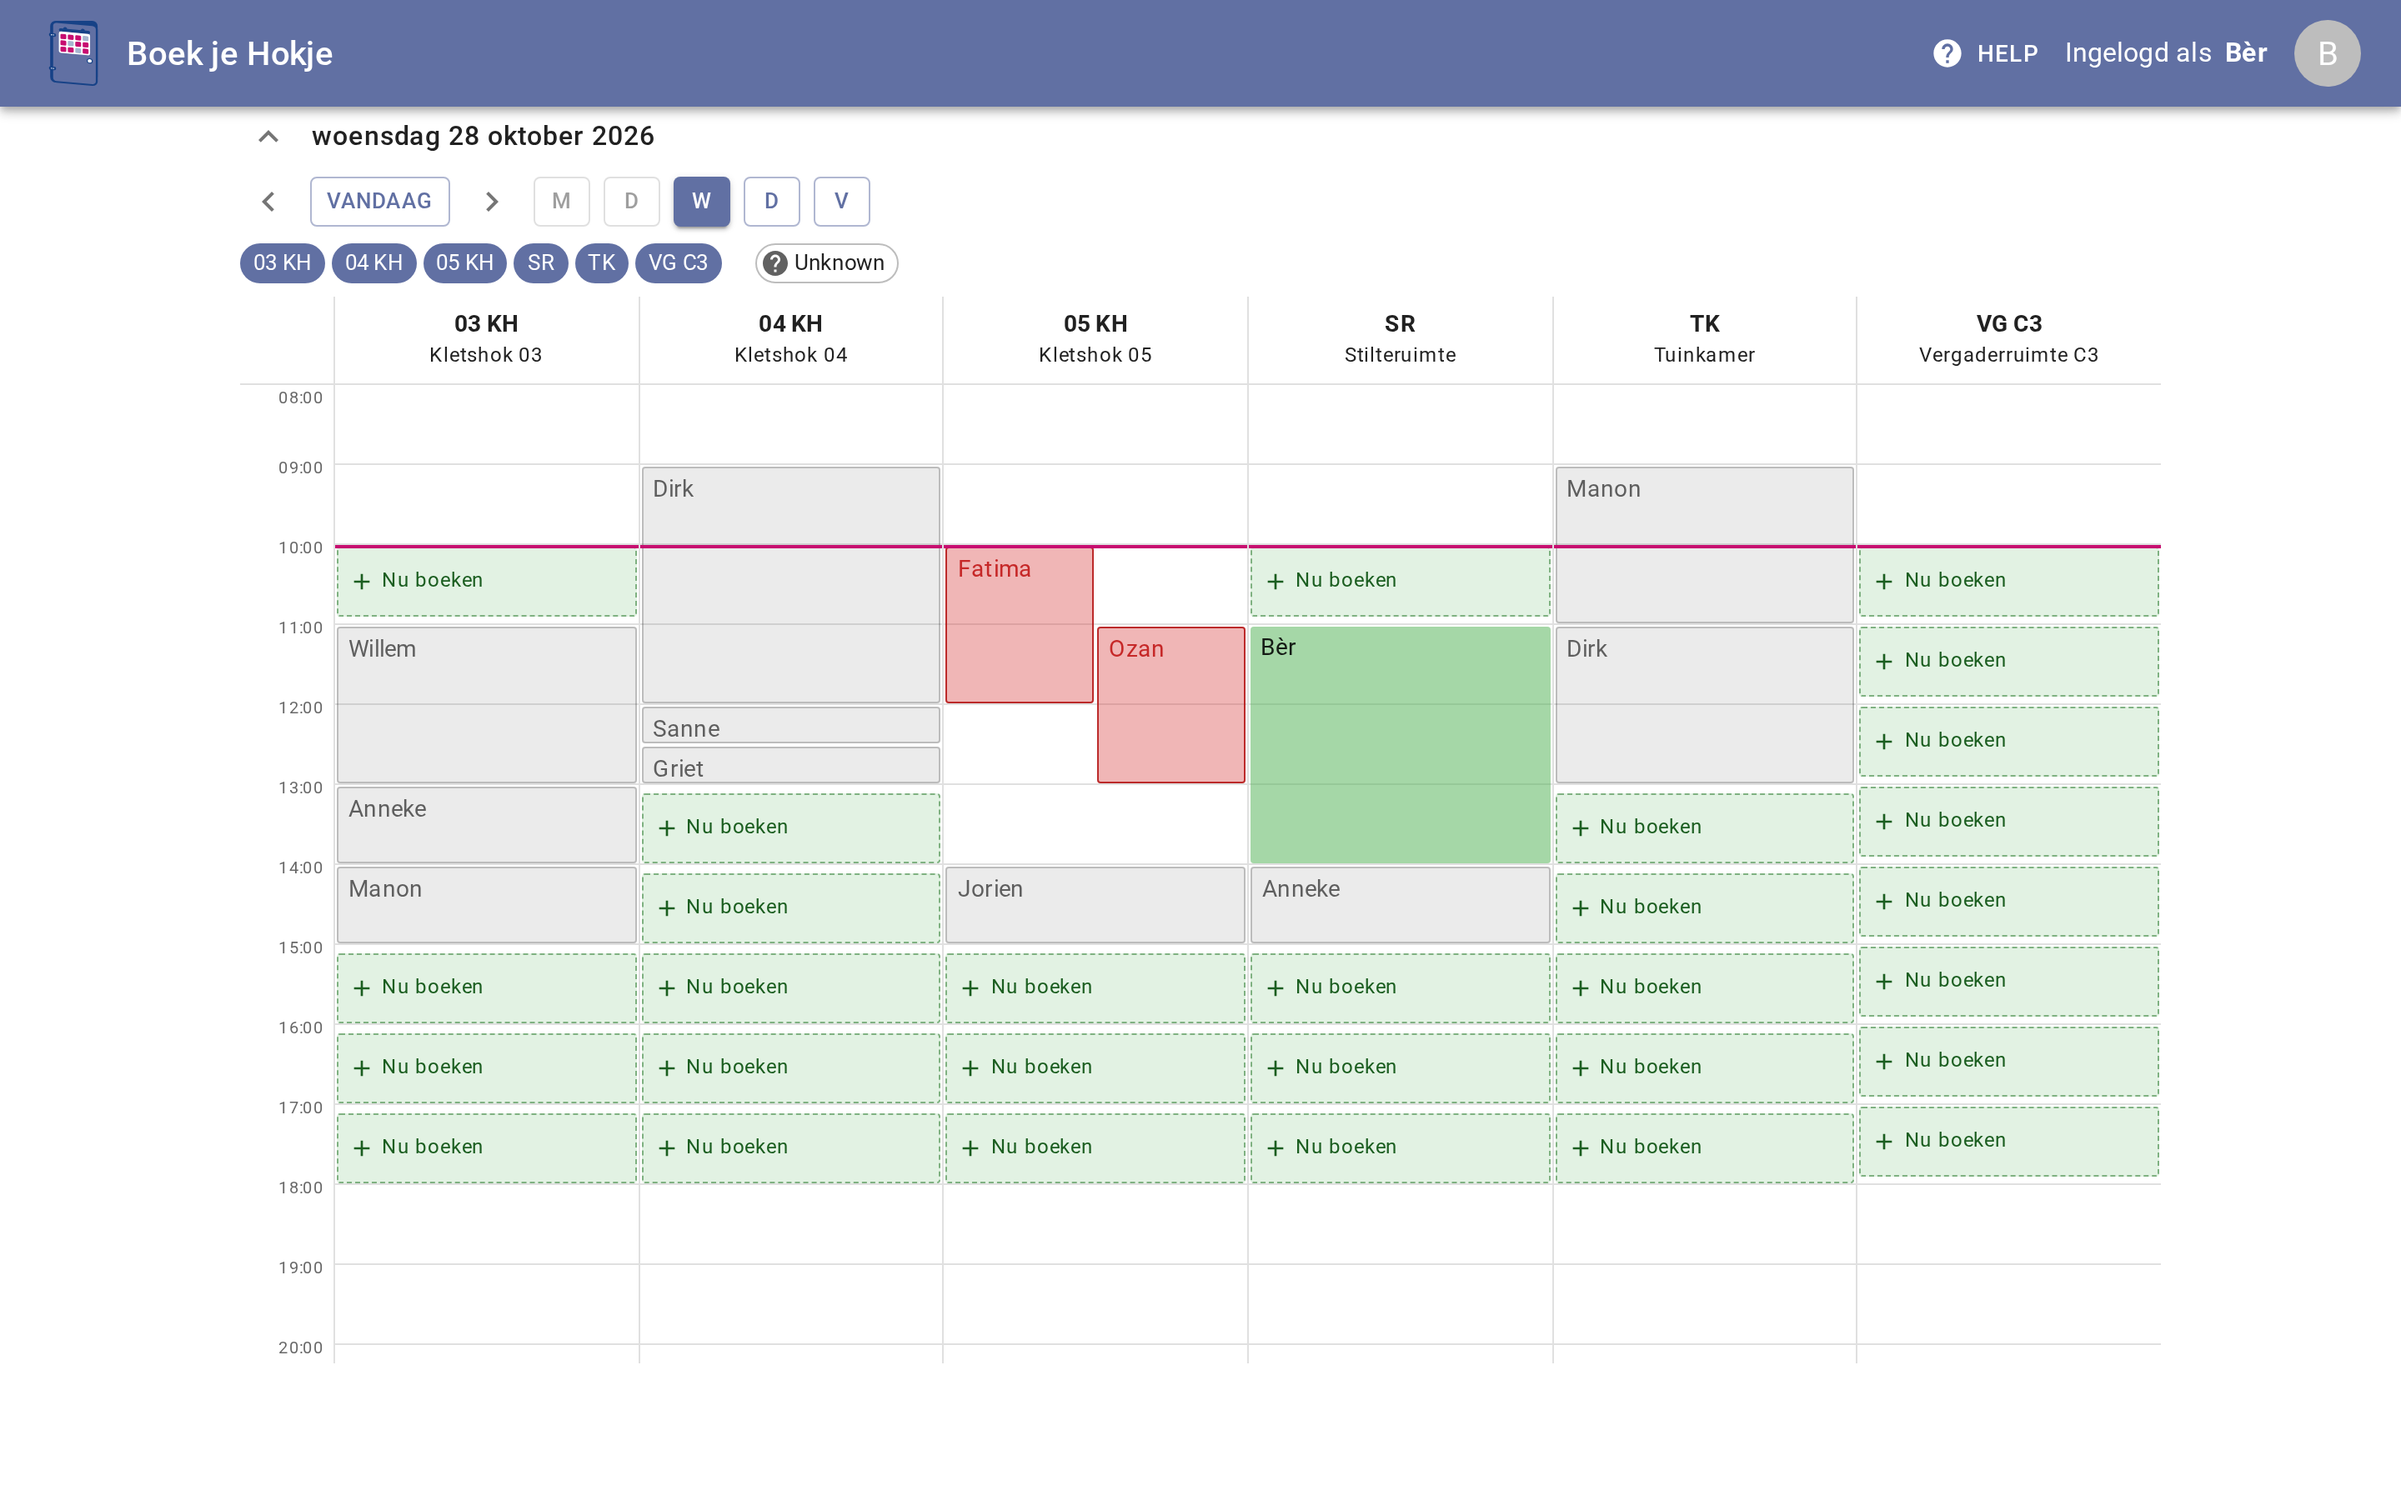
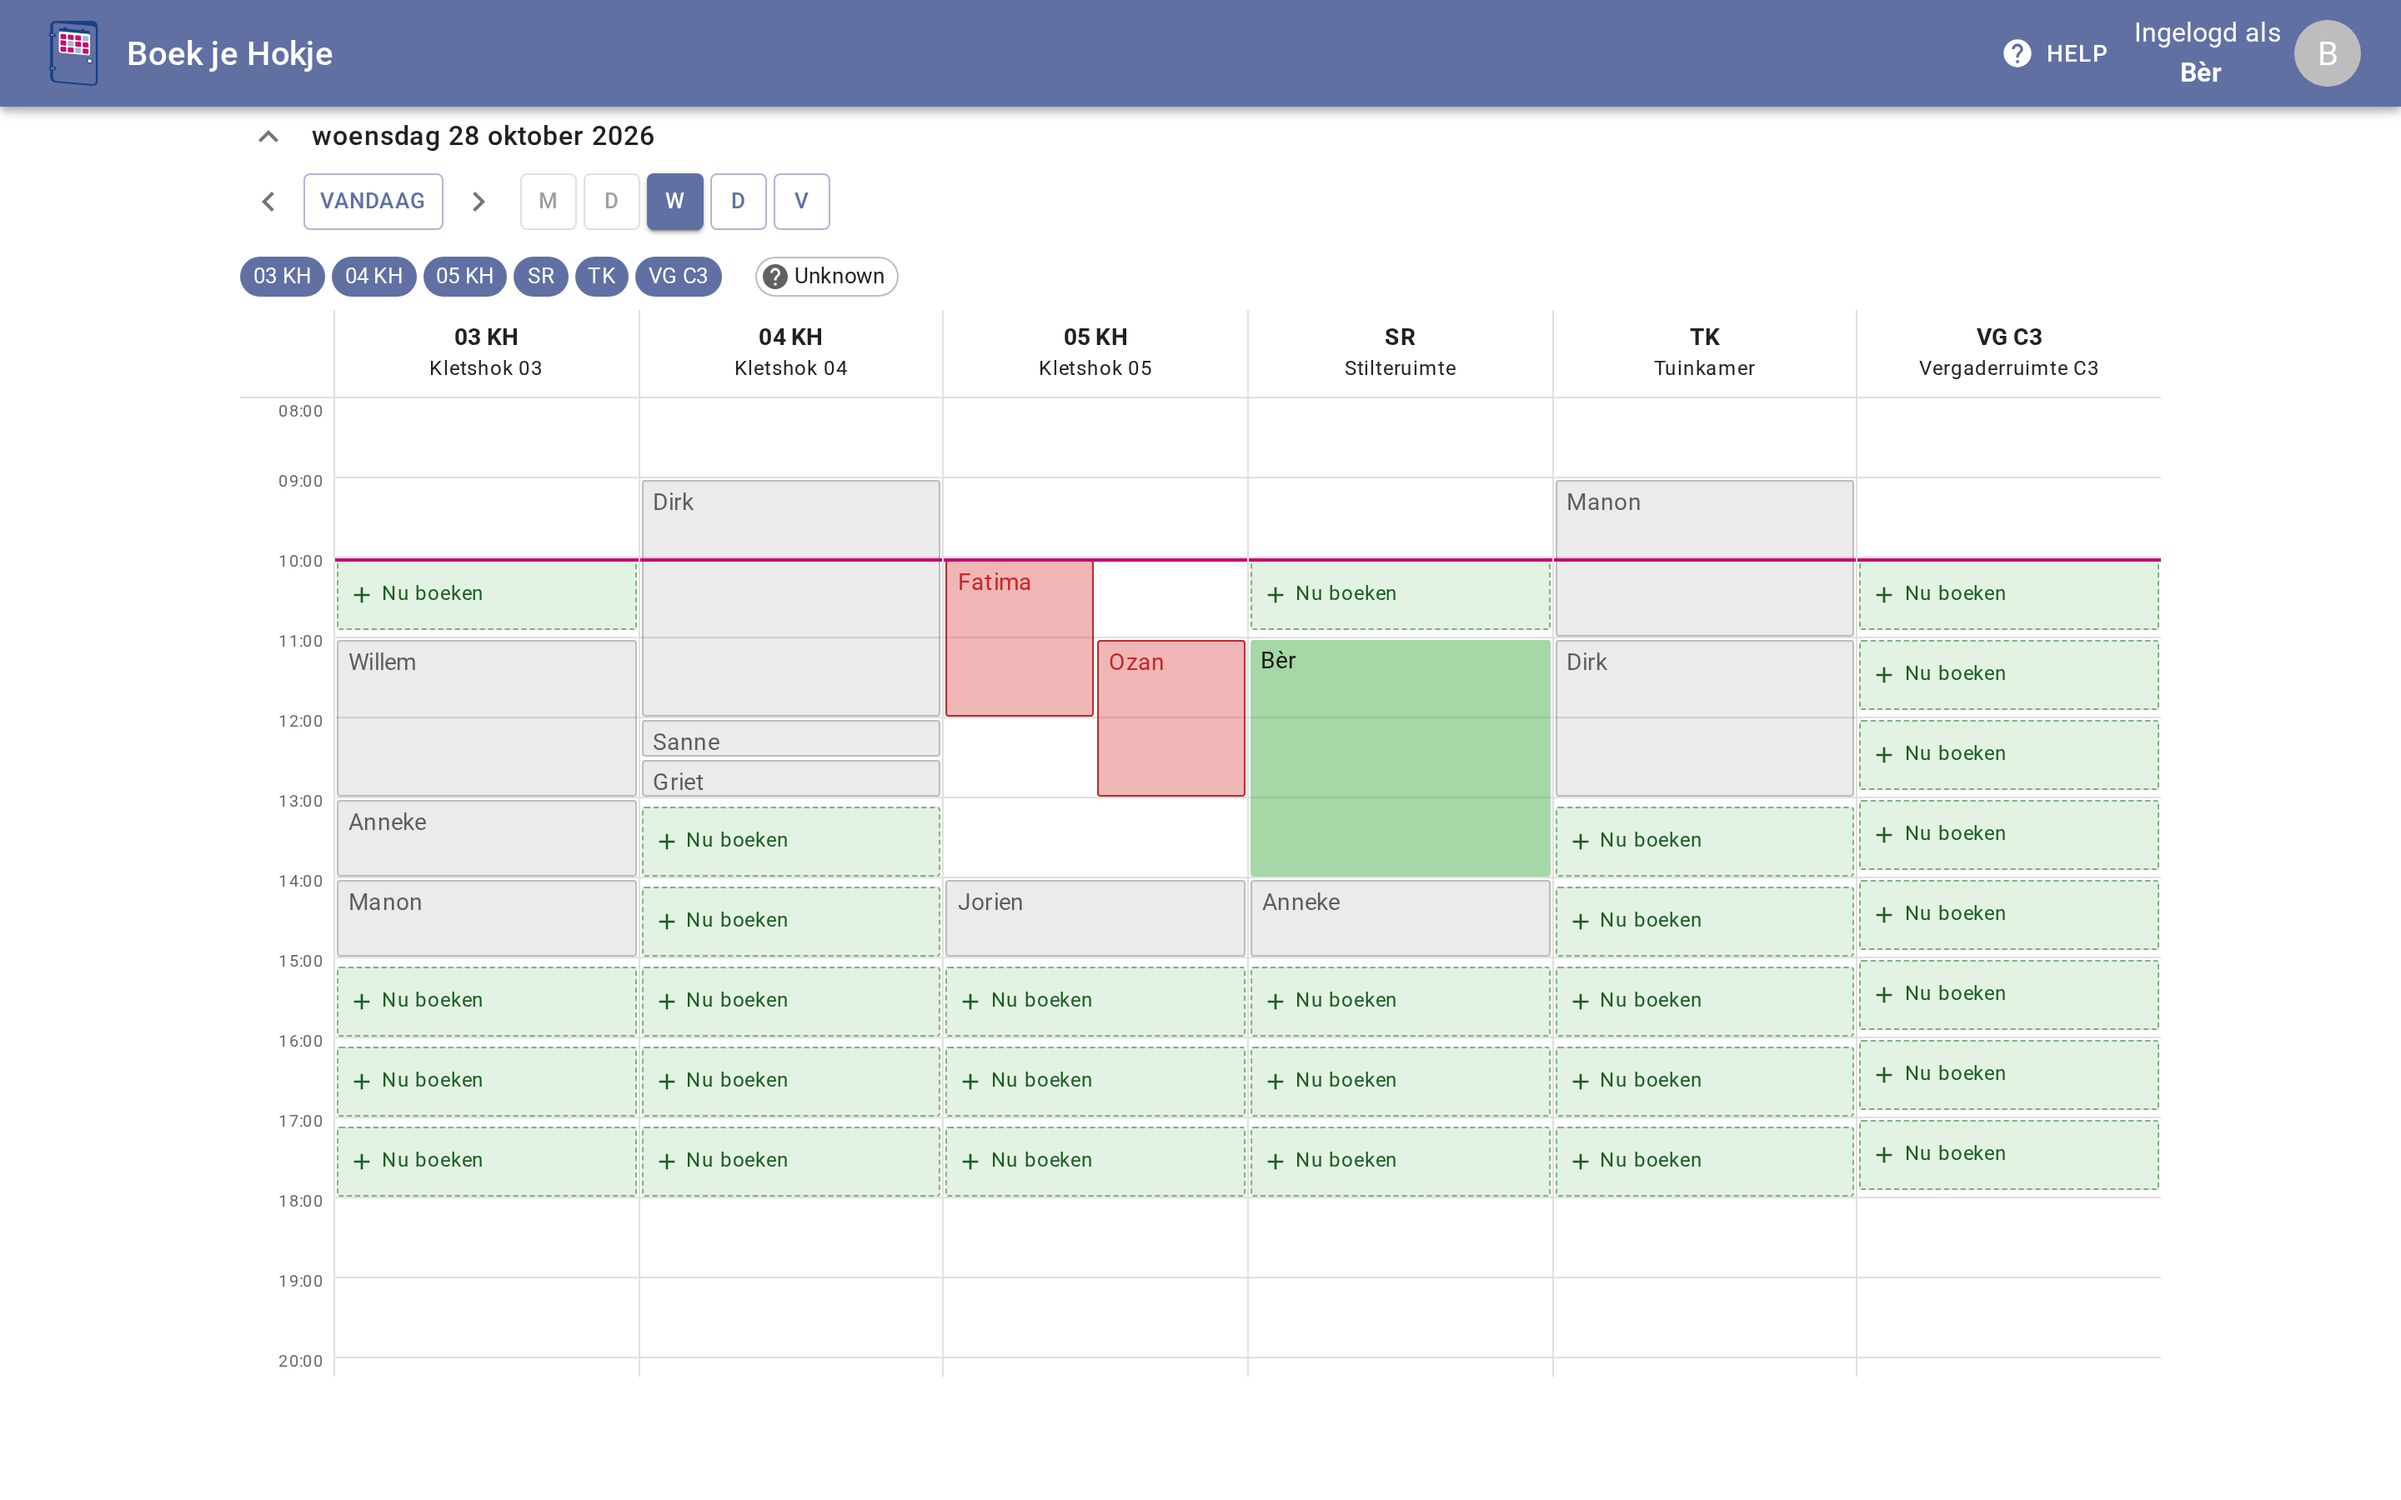
docs: retake landing screenshots and document the responsive app bar
Mobile now shows hamburger left + avatar right (no 'Ingelogd als' text or
Help button in the bar); desktop is unchanged. architecture.md notes the
AppHeader's CSS-breakpoint responsiveness and hide-on-scroll.

diff --git a/docs/architecture.md b/docs/architecture.md
@@ -18,7 +18,11 @@ Layers, top to bottom:
 - **Components** (`src/components/`) — MUI components, the pages
   (`components/pages/`) and the super-calendar board (`components/calendar/`).
   No API calls, no service wiring: domain types and pure helpers from the
-  services barrel, service instances only via hooks.
+  services barrel, service instances only via hooks. The app bar lives in
+  `components/AppHeader.tsx`: responsive via CSS breakpoints only (mobile:
+  hamburger left, avatar right, with "Ingelogd als"/Help in the avatar menu),
+  and it hides on scroll on every viewport via MUI's `useScrollTrigger` +
+  `Slide`.
 - **Hooks** (`src/hooks/`) — the React bridge. `ServicesProvider` provides the
   service tree; `useServices.ts` exposes typed accessors; `useSession`,
   `useCalendar` and `useRoomVisibility` call the services and manage the results
